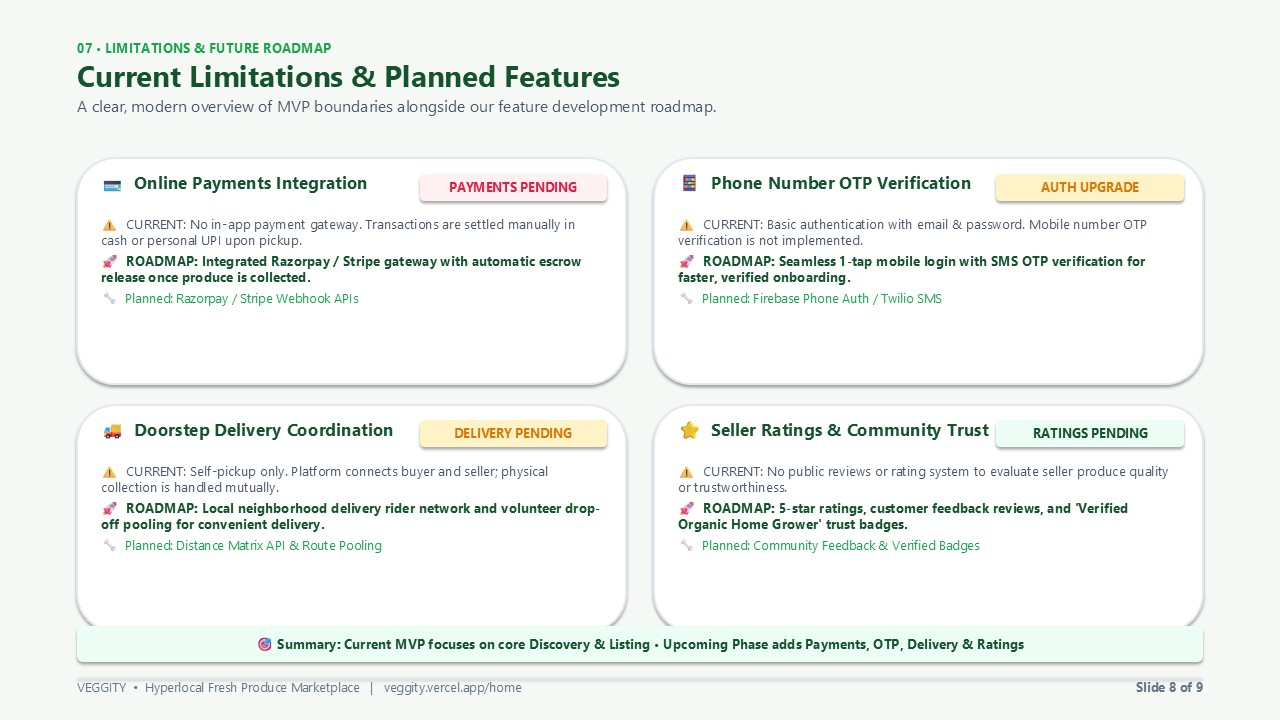
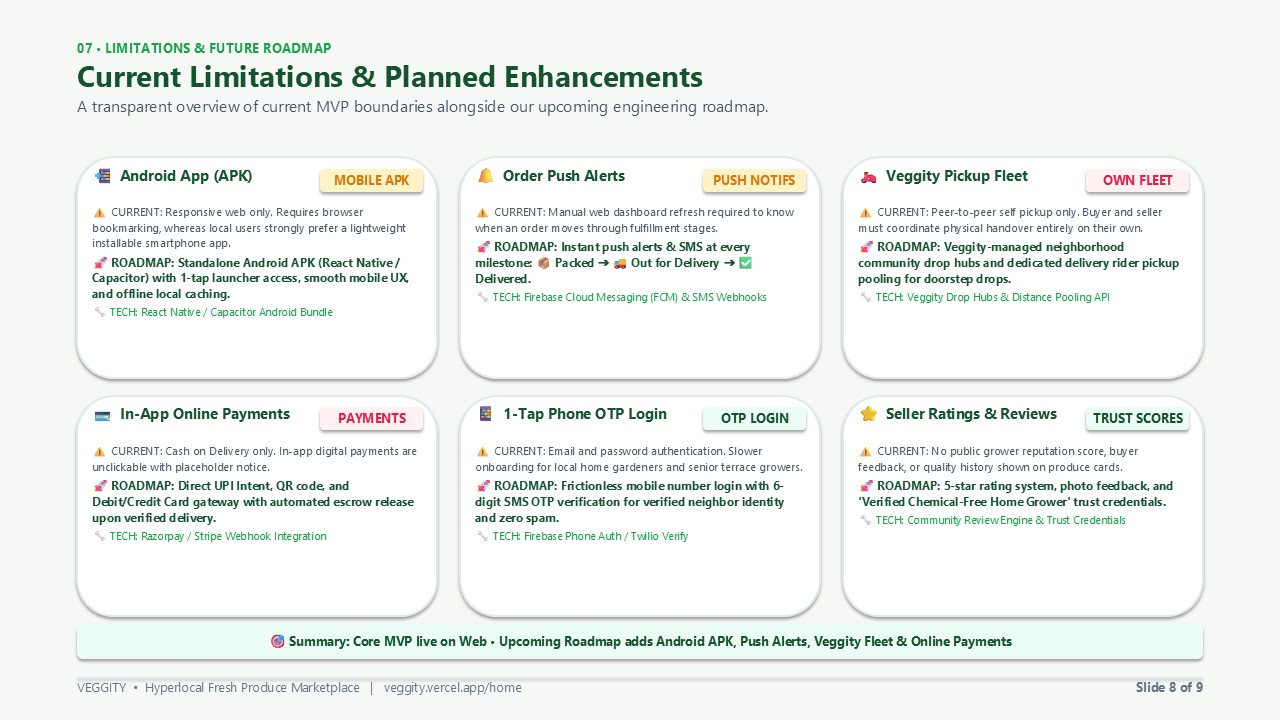
docs(presentation): add APK conversion, push notifications, and fleet delivery to Slide 8

diff --git a/generate_presentation.py b/generate_presentation.py
@@ -782,96 +782,123 @@ def create_deck(output_path, qr_image_path):
                   meta, chip_bg, chip_col)
 
     # =========================================================================
-    # SLIDE 8: Redesigned Modern & Attractive Limitations & Future Roadmap
+    # SLIDE 8: Redesigned Modern 6-Card Limitations & Future Roadmap
     # =========================================================================
     slide8 = prs.slides.add_slide(blank_layout)
     set_slide_background(slide8, COLOR_BG)
-    add_header(slide8, "07 • Limitations & Future Roadmap", "Current Limitations & Planned Features", "A clear, modern overview of MVP boundaries alongside our feature development roadmap.")
+    add_header(slide8, "07 • Limitations & Future Roadmap", "Current Limitations & Planned Enhancements", "A transparent overview of current MVP boundaries alongside our upcoming engineering roadmap.")
     add_footer(slide8, 8)
 
-    card_w2 = Inches(5.72)
-    card_h2 = Inches(2.35)
-    row1_y = Inches(1.65)
-    row2_y = row1_y + card_h2 + Inches(0.22)
+    card_w3 = Inches(3.75)
+    card_h3 = Inches(2.30)
+    gap_x3 = Inches(0.24)
+    gap_y3 = Inches(0.18)
+    row1_y = Inches(1.64)
+    row2_y = row1_y + card_h3 + gap_y3
 
     roadmap_items = [
-        ("💳", "Online Payments Integration",
-         "CURRENT: No in-app payment gateway. Transactions are settled manually in cash or personal UPI upon pickup.",
-         "ROADMAP: Integrated Razorpay / Stripe gateway with automatic escrow release once produce is collected.",
-         "Planned: Razorpay / Stripe Webhook APIs",
-         "PAYMENTS PENDING", COLOR_ROSE_BG, COLOR_ROSE_TEXT),
-        
-        ("📱", "Phone Number OTP Verification",
-         "CURRENT: Basic authentication with email & password. Mobile number OTP verification is not implemented.",
-         "ROADMAP: Seamless 1-tap mobile login with SMS OTP verification for faster, verified onboarding.",
-         "Planned: Firebase Phone Auth / Twilio SMS",
-         "AUTH UPGRADE", COLOR_AMBER_BG, COLOR_AMBER),
+        ("📲", "Android App (APK)",
+         "CURRENT: Responsive web only. Requires browser bookmarking, whereas local users strongly prefer a lightweight installable smartphone app.",
+         "ROADMAP: Standalone Android APK (React Native / Capacitor) with 1-tap launcher access, smooth mobile UX, and offline local caching.",
+         "TECH: React Native / Capacitor Android Bundle",
+         "MOBILE APK", COLOR_AMBER_BG, COLOR_AMBER),
 
-        ("🚚", "Doorstep Delivery Coordination",
-         "CURRENT: Self-pickup only. Platform connects buyer and seller; physical collection is handled mutually.",
-         "ROADMAP: Local neighborhood delivery rider network and volunteer drop-off pooling for convenient delivery.",
-         "Planned: Distance Matrix API & Route Pooling",
-         "DELIVERY PENDING", COLOR_AMBER_BG, COLOR_AMBER),
+        ("🔔", "Order Push Alerts",
+         "CURRENT: Manual web dashboard refresh required to know when an order moves through fulfillment stages.",
+         "ROADMAP: Instant push alerts & SMS at every milestone: 📦 Packed ➔ 🚚 Out for Delivery ➔ ✅ Delivered.",
+         "TECH: Firebase Cloud Messaging (FCM) & SMS Webhooks",
+         "PUSH NOTIFS", COLOR_AMBER_BG, COLOR_AMBER),
 
-        ("⭐", "Seller Ratings & Community Trust",
-         "CURRENT: No public reviews or rating system to evaluate seller produce quality or trustworthiness.",
-         "ROADMAP: 5-star ratings, customer feedback reviews, and 'Verified Organic Home Grower' trust badges.",
-         "Planned: Community Feedback & Verified Badges",
-         "RATINGS PENDING", COLOR_LIGHT_MINT, COLOR_DARK_GREEN)
+        ("🛵", "Veggity Pickup Fleet",
+         "CURRENT: Peer-to-peer self pickup only. Buyer and seller must coordinate physical handover entirely on their own.",
+         "ROADMAP: Veggity-managed neighborhood community drop hubs and dedicated delivery rider pickup pooling for doorstep drops.",
+         "TECH: Veggity Drop Hubs & Distance Pooling API",
+         "OWN FLEET", COLOR_ROSE_BG, COLOR_ROSE_TEXT),
+
+        ("💳", "In-App Online Payments",
+         "CURRENT: Cash on Delivery only. In-app digital payments are unclickable with placeholder notice.",
+         "ROADMAP: Direct UPI Intent, QR code, and Debit/Credit Card gateway with automated escrow release upon verified delivery.",
+         "TECH: Razorpay / Stripe Webhook Integration",
+         "PAYMENTS", COLOR_ROSE_BG, COLOR_ROSE_TEXT),
+
+        ("📱", "1-Tap Phone OTP Login",
+         "CURRENT: Email and password authentication. Slower onboarding for local home gardeners and senior terrace growers.",
+         "ROADMAP: Frictionless mobile number login with 6-digit SMS OTP verification for verified neighbor identity and zero spam.",
+         "TECH: Firebase Phone Auth / Twilio Verify",
+         "OTP LOGIN", COLOR_LIGHT_MINT, COLOR_DARK_GREEN),
+
+        ("⭐", "Seller Ratings & Reviews",
+         "CURRENT: No public grower reputation score, buyer feedback, or quality history shown on produce cards.",
+         "ROADMAP: 5-star rating system, photo feedback, and 'Verified Chemical-Free Home Grower' trust credentials.",
+         "TECH: Community Review Engine & Trust Credentials",
+         "TRUST SCORES", COLOR_LIGHT_MINT, COLOR_DARK_GREEN)
+    ]
+
+    col_x_coords = [
+        Inches(0.8),
+        Inches(0.8) + card_w3 + gap_x3,
+        Inches(0.8) + (card_w3 + gap_x3) * 2
     ]
 
     grid_positions = [
-        (Inches(0.8), row1_y),
-        (Inches(6.81), row1_y),
-        (Inches(0.8), row2_y),
-        (Inches(6.81), row2_y)
+        (col_x_coords[0], row1_y),
+        (col_x_coords[1], row1_y),
+        (col_x_coords[2], row1_y),
+        (col_x_coords[0], row2_y),
+        (col_x_coords[1], row2_y),
+        (col_x_coords[2], row2_y)
     ]
 
     for (icon, title, cur_text, road_text, spec_text, badge_txt, b_bg, b_col), (pos_x, pos_y) in zip(roadmap_items, grid_positions):
-        create_card(slide8, pos_x, pos_y, card_w2, card_h2, COLOR_CARD_BG, COLOR_BORDER)
+        create_card(slide8, pos_x, pos_y, card_w3, card_h3, COLOR_CARD_BG, COLOR_BORDER)
         
-        add_badge(slide8, pos_x + card_w2 - Inches(2.15), pos_y + Inches(0.16), Inches(1.95), Inches(0.28),
+        # Badge on top right
+        add_badge(slide8, pos_x + card_w3 - Inches(1.22), pos_y + Inches(0.12), Inches(1.08), Inches(0.24),
                   badge_txt, b_bg, b_col)
 
-        tb = slide8.shapes.add_textbox(pos_x + Inches(0.25), pos_y + Inches(0.14), card_w2 - Inches(2.45), Inches(0.45))
+        # Title on top left
+        tb = slide8.shapes.add_textbox(pos_x + Inches(0.16), pos_y + Inches(0.10), card_w3 - Inches(1.36), Inches(0.38))
         tf = tb.text_frame
         tf.word_wrap = True
         tf.margin_left = tf.margin_top = tf.margin_right = tf.margin_bottom = 0
         p1 = tf.paragraphs[0]
         p1.text = f"{icon}  {title}"
         p1.font.name = FONT_FAMILY
-        p1.font.size = Pt(13)
+        p1.font.size = Pt(11)
         p1.font.bold = True
         p1.font.color.rgb = COLOR_DARK_GREEN
 
-        tb_body = slide8.shapes.add_textbox(pos_x + Inches(0.25), pos_y + Inches(0.6), card_w2 - Inches(0.5), card_h2 - Inches(0.7))
+        # Body
+        tb_body = slide8.shapes.add_textbox(pos_x + Inches(0.16), pos_y + Inches(0.50), card_w3 - Inches(0.32), card_h3 - Inches(0.56))
         tfb = tb_body.text_frame
         tfb.word_wrap = True
         tfb.margin_left = tfb.margin_top = tfb.margin_right = tfb.margin_bottom = 0
 
         p_cur = tfb.paragraphs[0]
-        p_cur.text = "⚠  " + cur_text
+        p_cur.text = "⚠ " + cur_text
         p_cur.font.name = FONT_FAMILY
-        p_cur.font.size = Pt(10)
+        p_cur.font.size = Pt(8.5)
         p_cur.font.color.rgb = COLOR_TEXT_MUTED
-        p_cur.space_after = Pt(4)
+        p_cur.line_spacing = 1.12
+        p_cur.space_after = Pt(3)
 
         p_road = tfb.add_paragraph()
-        p_road.text = "🚀  " + road_text
+        p_road.text = "🚀 " + road_text
         p_road.font.name = FONT_FAMILY
-        p_road.font.size = Pt(10)
+        p_road.font.size = Pt(8.8)
         p_road.font.bold = True
         p_road.font.color.rgb = COLOR_DARK_GREEN
-        p_road.space_after = Pt(4)
+        p_road.line_spacing = 1.12
+        p_road.space_after = Pt(3)
 
         p_spec = tfb.add_paragraph()
-        p_spec.text = "🔧  " + spec_text
+        p_spec.text = "🔧 " + spec_text
         p_spec.font.name = FONT_FAMILY
-        p_spec.font.size = Pt(9.5)
+        p_spec.font.size = Pt(8.0)
         p_spec.font.color.rgb = COLOR_MID_GREEN
 
     # Bottom Highlight Pill Card spanning the bottom
-    bot_bar = slide8.shapes.add_shape(MSO_SHAPE.ROUNDED_RECTANGLE, Inches(0.8), Inches(6.52), Inches(11.733), Inches(0.38))
+    bot_bar = slide8.shapes.add_shape(MSO_SHAPE.ROUNDED_RECTANGLE, Inches(0.8), Inches(6.50), Inches(11.733), Inches(0.36))
     bot_bar.fill.solid()
     bot_bar.fill.fore_color.rgb = COLOR_LIGHT_MINT
     bot_bar.line.fill.background()
@@ -879,10 +906,10 @@ def create_deck(output_path, qr_image_path):
     bbtf.word_wrap = False
     bbtf.margin_left = bbtf.margin_top = bbtf.margin_right = bbtf.margin_bottom = 0
     bbp = bbtf.paragraphs[0]
-    bbp.text = "🎯 Summary: Current MVP focuses on core Discovery & Listing • Upcoming Phase adds Payments, OTP, Delivery & Ratings"
+    bbp.text = "🎯 Summary: Core MVP live on Web • Upcoming Roadmap adds Android APK, Push Alerts, Veggity Fleet & Online Payments"
     bbp.alignment = PP_ALIGN.CENTER
     bbp.font.name = FONT_FAMILY
-    bbp.font.size = Pt(10)
+    bbp.font.size = Pt(9.5)
     bbp.font.bold = True
     bbp.font.color.rgb = COLOR_DARK_GREEN
 
